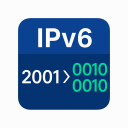
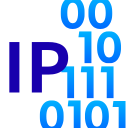
chore: v0.2.1 - Chrome Web Store対応
- tabs権限を削除（Purple Potassium違反対応）
- アイコンをシンプルなデザインに変更

diff --git a/store/reject/store_reject_2025-07-19_YellowNickel.md b/store/reject/store_reject_2025-07-19_YellowNickel.md
@@ -1,0 +1,65 @@
+デベロッパー様
+
+デベロッパー様が最近提出されたアイテムが残念ながら却下されたことをお知らせいたします。詳しくは下記をご覧ください。
+
+アイテム名: IP Converter
+
+違反:
+
+違反の参照 ID: [Yellow Nickel](https://developer.chrome.com/docs/webstore/troubleshooting/#spam)
+
+違反事項:
+
+Chrome ウェブストアの「スパムとストア掲載順位」ポリシーに違反している。
+
+修正方法
+
+アイテムの Chrome ウェブストア リストから過剰なキーワードを削除します。
+なんらかの手段でアイテムの掲載順位を操作することは禁止されています。
+別のアプリ、拡張機能、テーマ、ウェブページを起動することのみを目的とするアイテムを掲載することはできません。
+
+[プログラム ポリシー](https://developer.chrome.com/webstore/program_policies)の関連セクション:
+
+スパムとストア掲載順位
+
+反復的なコンテンツ: デベロッパーまたはその関連会社が、Chrome ウェブストアで重複したエクスペリエンスまたは機能を提供する複数の拡張機能を提出することは許可されません。
+
+キーワード スパム: 誤解を生じさせるメタデータ、誤った形式のメタデータ、説明的でないメタデータ、関連性のないメタデータ、過剰なメタデータ、不適切なメタデータ（拡張機能の説明、デベロッパー名、タイトル、アイコン、スクリーンショット、プロモーション画像を含むが、これらに限定されない）を含む拡張機能は許可されません。デベロッパーは、わかりやすく的確な説明を提供する必要があります。また、出典が不明な、または匿名のお客様の声を製品の説明に含めることはできません。
+
+ユーザーの評価数、レビュー数、インストール数: デベロッパーは、Chrome ウェブストアにおける拡張機能の掲載順位を操作しようと試みてはなりません。そのような行為には、製品評価数、レビュー数、インストール数の不正な手段による水増し（詐欺的行為またはインセンティブの供与に基づくダウンロード、レビュー、評価など）が含まれますが、これらに限定されません。
+
+機能: 別のアプリ、テーマ、ウェブページ、拡張機能をインストールまたは起動することのみを目的とする拡張機能を掲載することはできません。機能に問題がある拡張機能（更新のないサイトや動作しない機能）は許可されません。
+
+通知の乱用: スパム、広告、プロモーション、フィッシングを目的とするメール、ユーザーのブラウジング エクスペリエンスに悪影響を及ぼす不必要なメッセージの送信により通知を乱用する拡張機能または乱用に関与する拡張機能は許可されません。
+
+メッセージ スパム: ユーザーが内容と受信者を確認できないメッセージをユーザーに代わって送信する拡張機能は許可されません。
+
+すべての拡張機能は、これらの要件に加えて [Google のウェブ デベロッパー品質ガイドライン](https://support.google.com/webmasters/answer/35769#quality_guidelines)に準拠する必要があります。
+
+この違反は内部審査の結果、検出されました。 このアイテムに対する操作は自動で処理されました。 違反措置について詳しくは、[こちら](https://developer.chrome.com/docs/webstore/program-policies/notification-and-appeals)をご覧ください。 さん
+
+誤って処分が適用されたと思われる場合
+
+なお、この決定が何かの間違いであると思われる場合は、お手数ですがこちらのフォームを使用して再審査請求を送信してください。
+
+EU に拠点がある場合は、これ以外の利用可能な救済手段をこちらでご確認いただけます。
+
+ルーティング ID: FZSL
+
+重要な注意事項:
+
+Chrome ウェブストアで繰り返し、もしくは悪質なポリシー違反を行った場合、デベロッパー アカウントが停止されたり、Chrome ウェブストア プラットフォームの利用が禁止されたりすることがあります。
+
+その結果、同じ Google アカウントでご利用の他の Google サービスも停止されることがあります。
+
+私たちは Chrome ウェブストア へのデベロッパー様の貢献を高く評価しており、デベロッパー様のアイテムが Google のポリシーを遵守するようになるためのお手伝いを喜んでいたします。
+
+よろしくお願い申し上げます。
+
+Chrome ウェブストア デベロッパー サポート
+
+---
+
+[デベロッパー向け利用規約](https://developer.chrome.com/webstore/terms)
+[プログラム ポリシー](https://developer.chrome.com/webstore/program_policies)
+[ブランドの取り扱いガイドライン](https://developer.chrome.com/webstore/branding)

diff --git a/store/reject/store_reject_2025-07-23_PurplePotassium.md b/store/reject/store_reject_2025-07-23_PurplePotassium.md
@@ -1,0 +1,21 @@
+デベロッパー様
+
+デベロッパー様が最近提出されたアイテムが残念ながら却下されたことをお知らせいたします。詳しくは下記をご覧ください。
+
+アイテム名: Binary Network Visualizer
+
+アイテム ID: xxxx.
+
+違反:
+
+権限の使用:
+
+違反の参照 ID: [Purple Potassium](https://developer.chrome.com/docs/webstore/troubleshooting/#excessive-permissions)
+違反事項:
+アイテムに実装されている方法 / プロパティでは、次の権限をリクエストする必要がない。
+`tabs`
+修正方法: 上記の権限を削除します。アイテムで使用するプロパティは、これらの権限をリクエストしなくても引き続き機能します。
+プログラム ポリシーの関連セクション:
+製品の機能またはサービスを実装するために必要最小限となる権限へのアクセスをリクエストします。まだ実装していないサービスまたは機能で使用する可能性がある権限を、将来に備える目的でリクエストしないでください。[（詳細）](https://developer.chrome.com/docs/webstore/program-policies/permissions/)
+
+この違反は内部審査の結果、検出されました。 違反措置について詳しくは、[こちら](https://developer.chrome.com/docs/webstore/program-policies/notification-and-appeals)をご覧ください。
